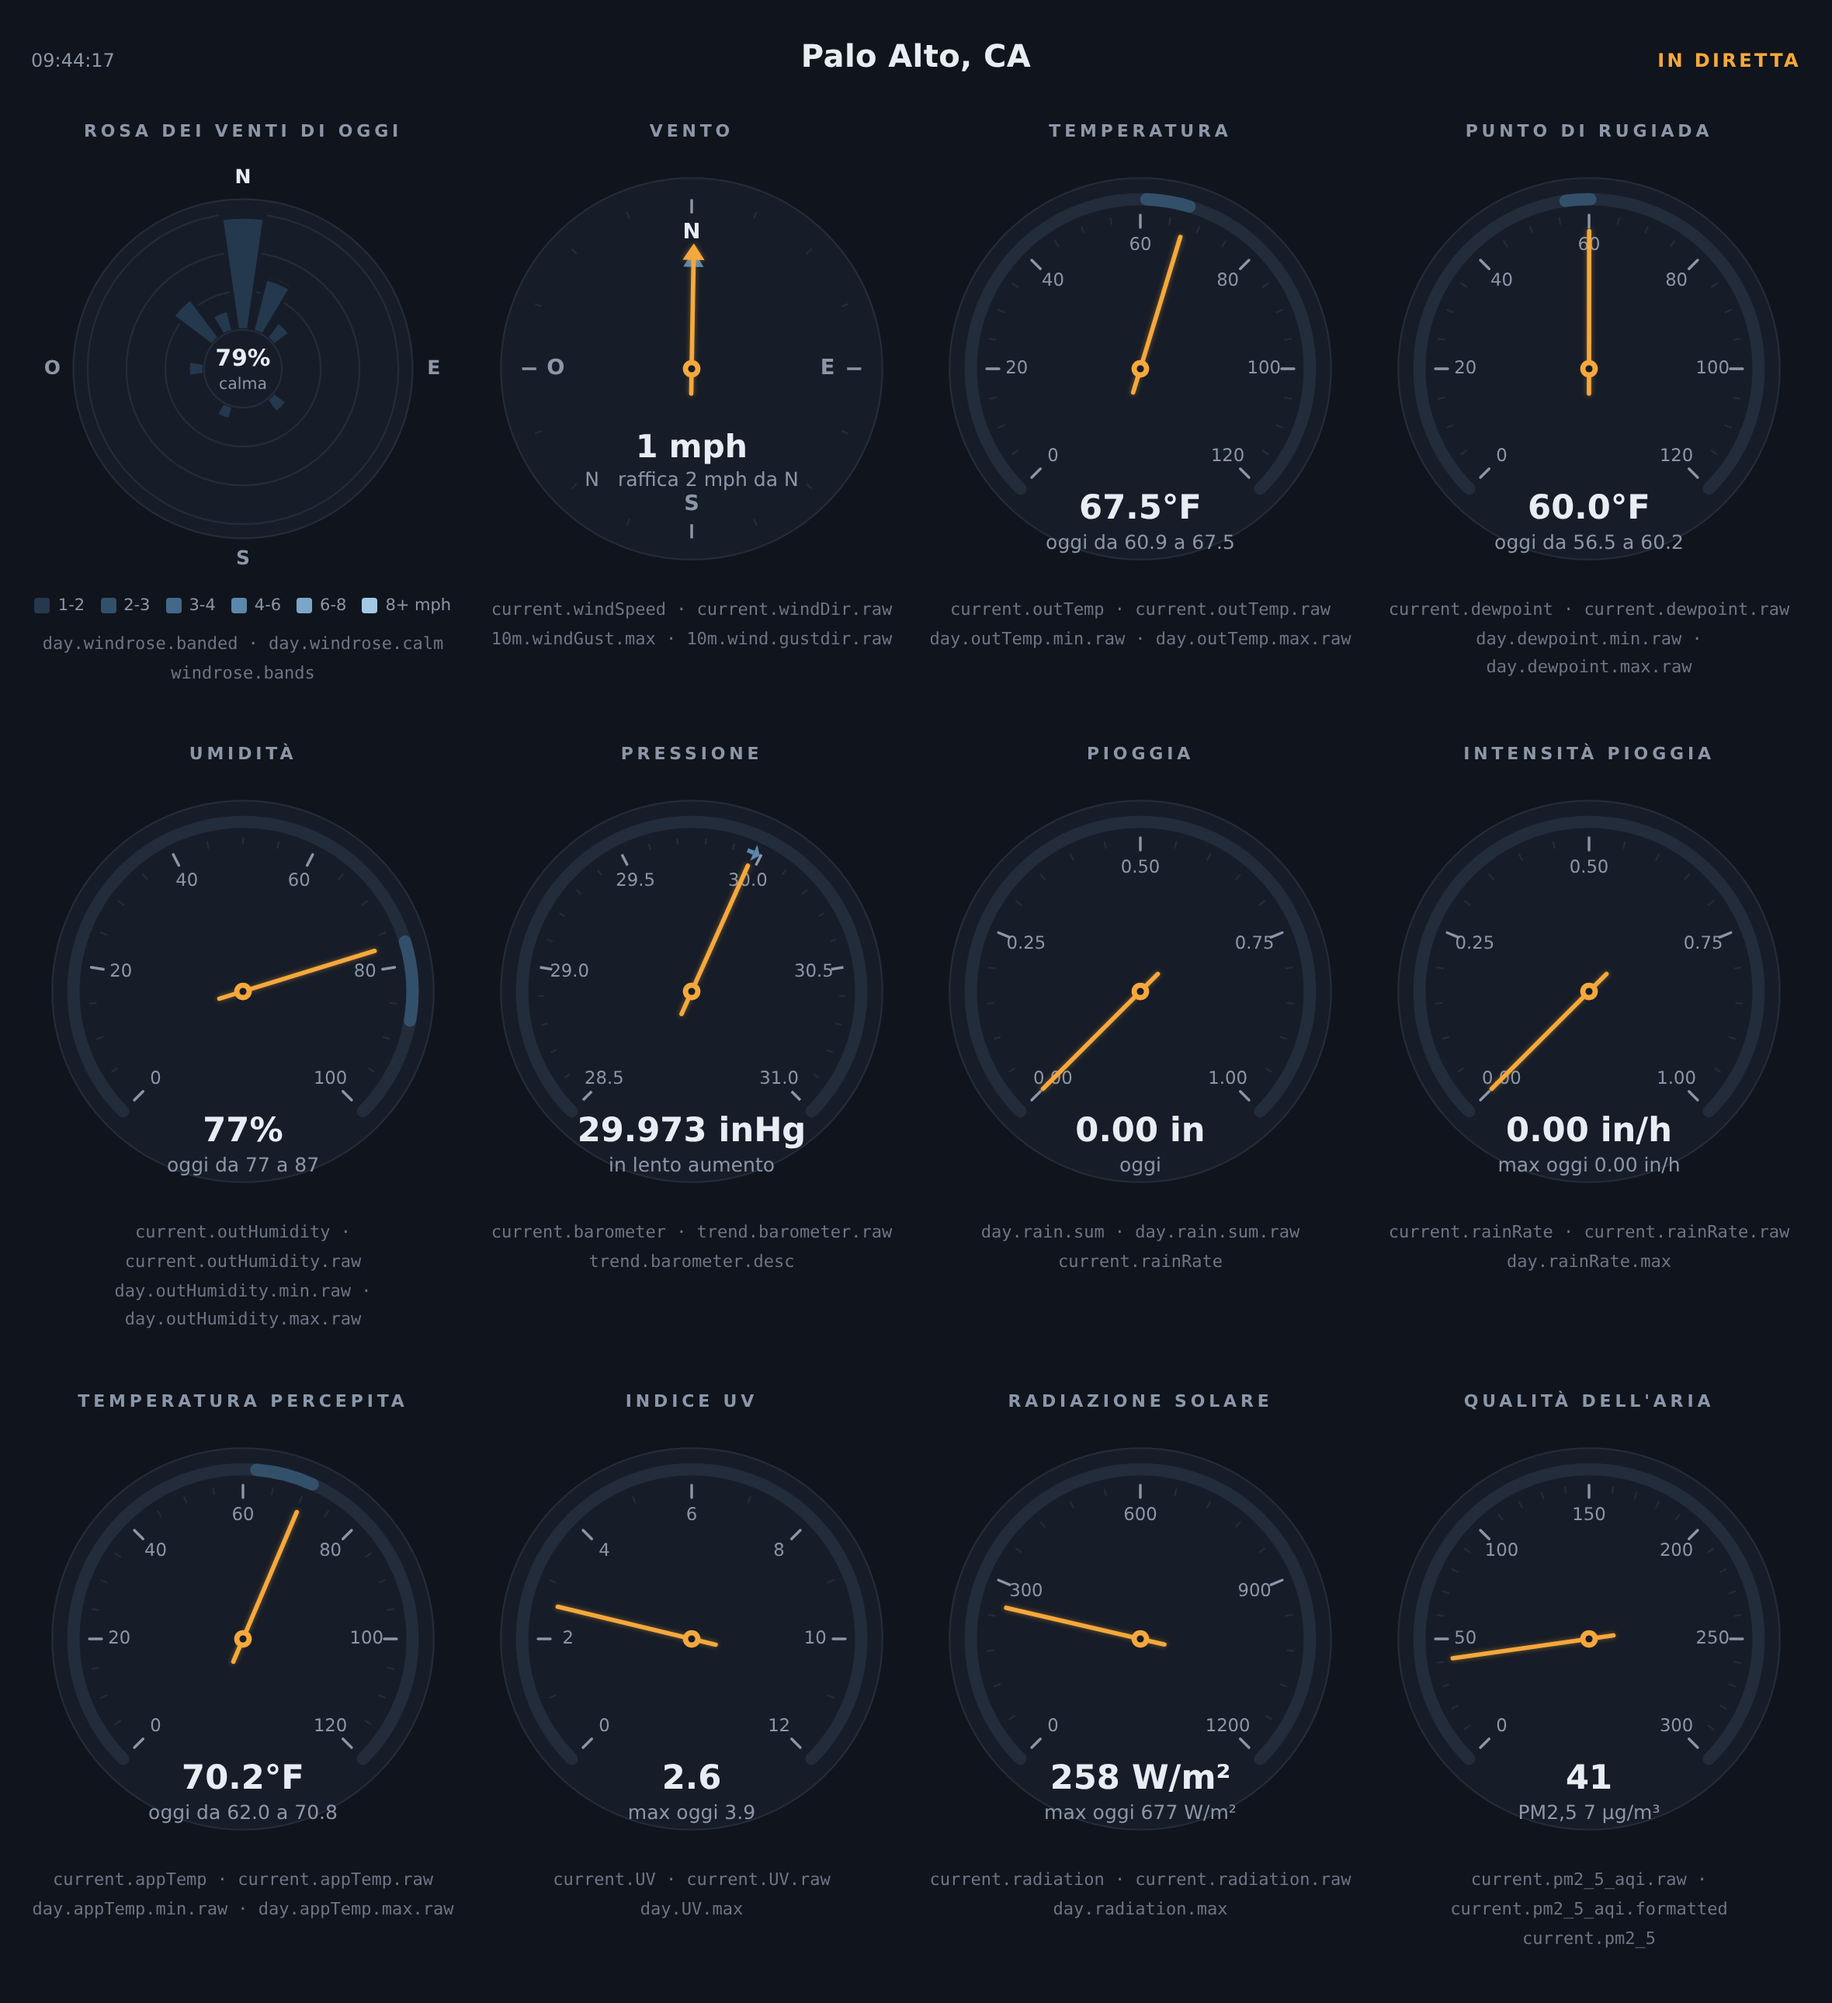
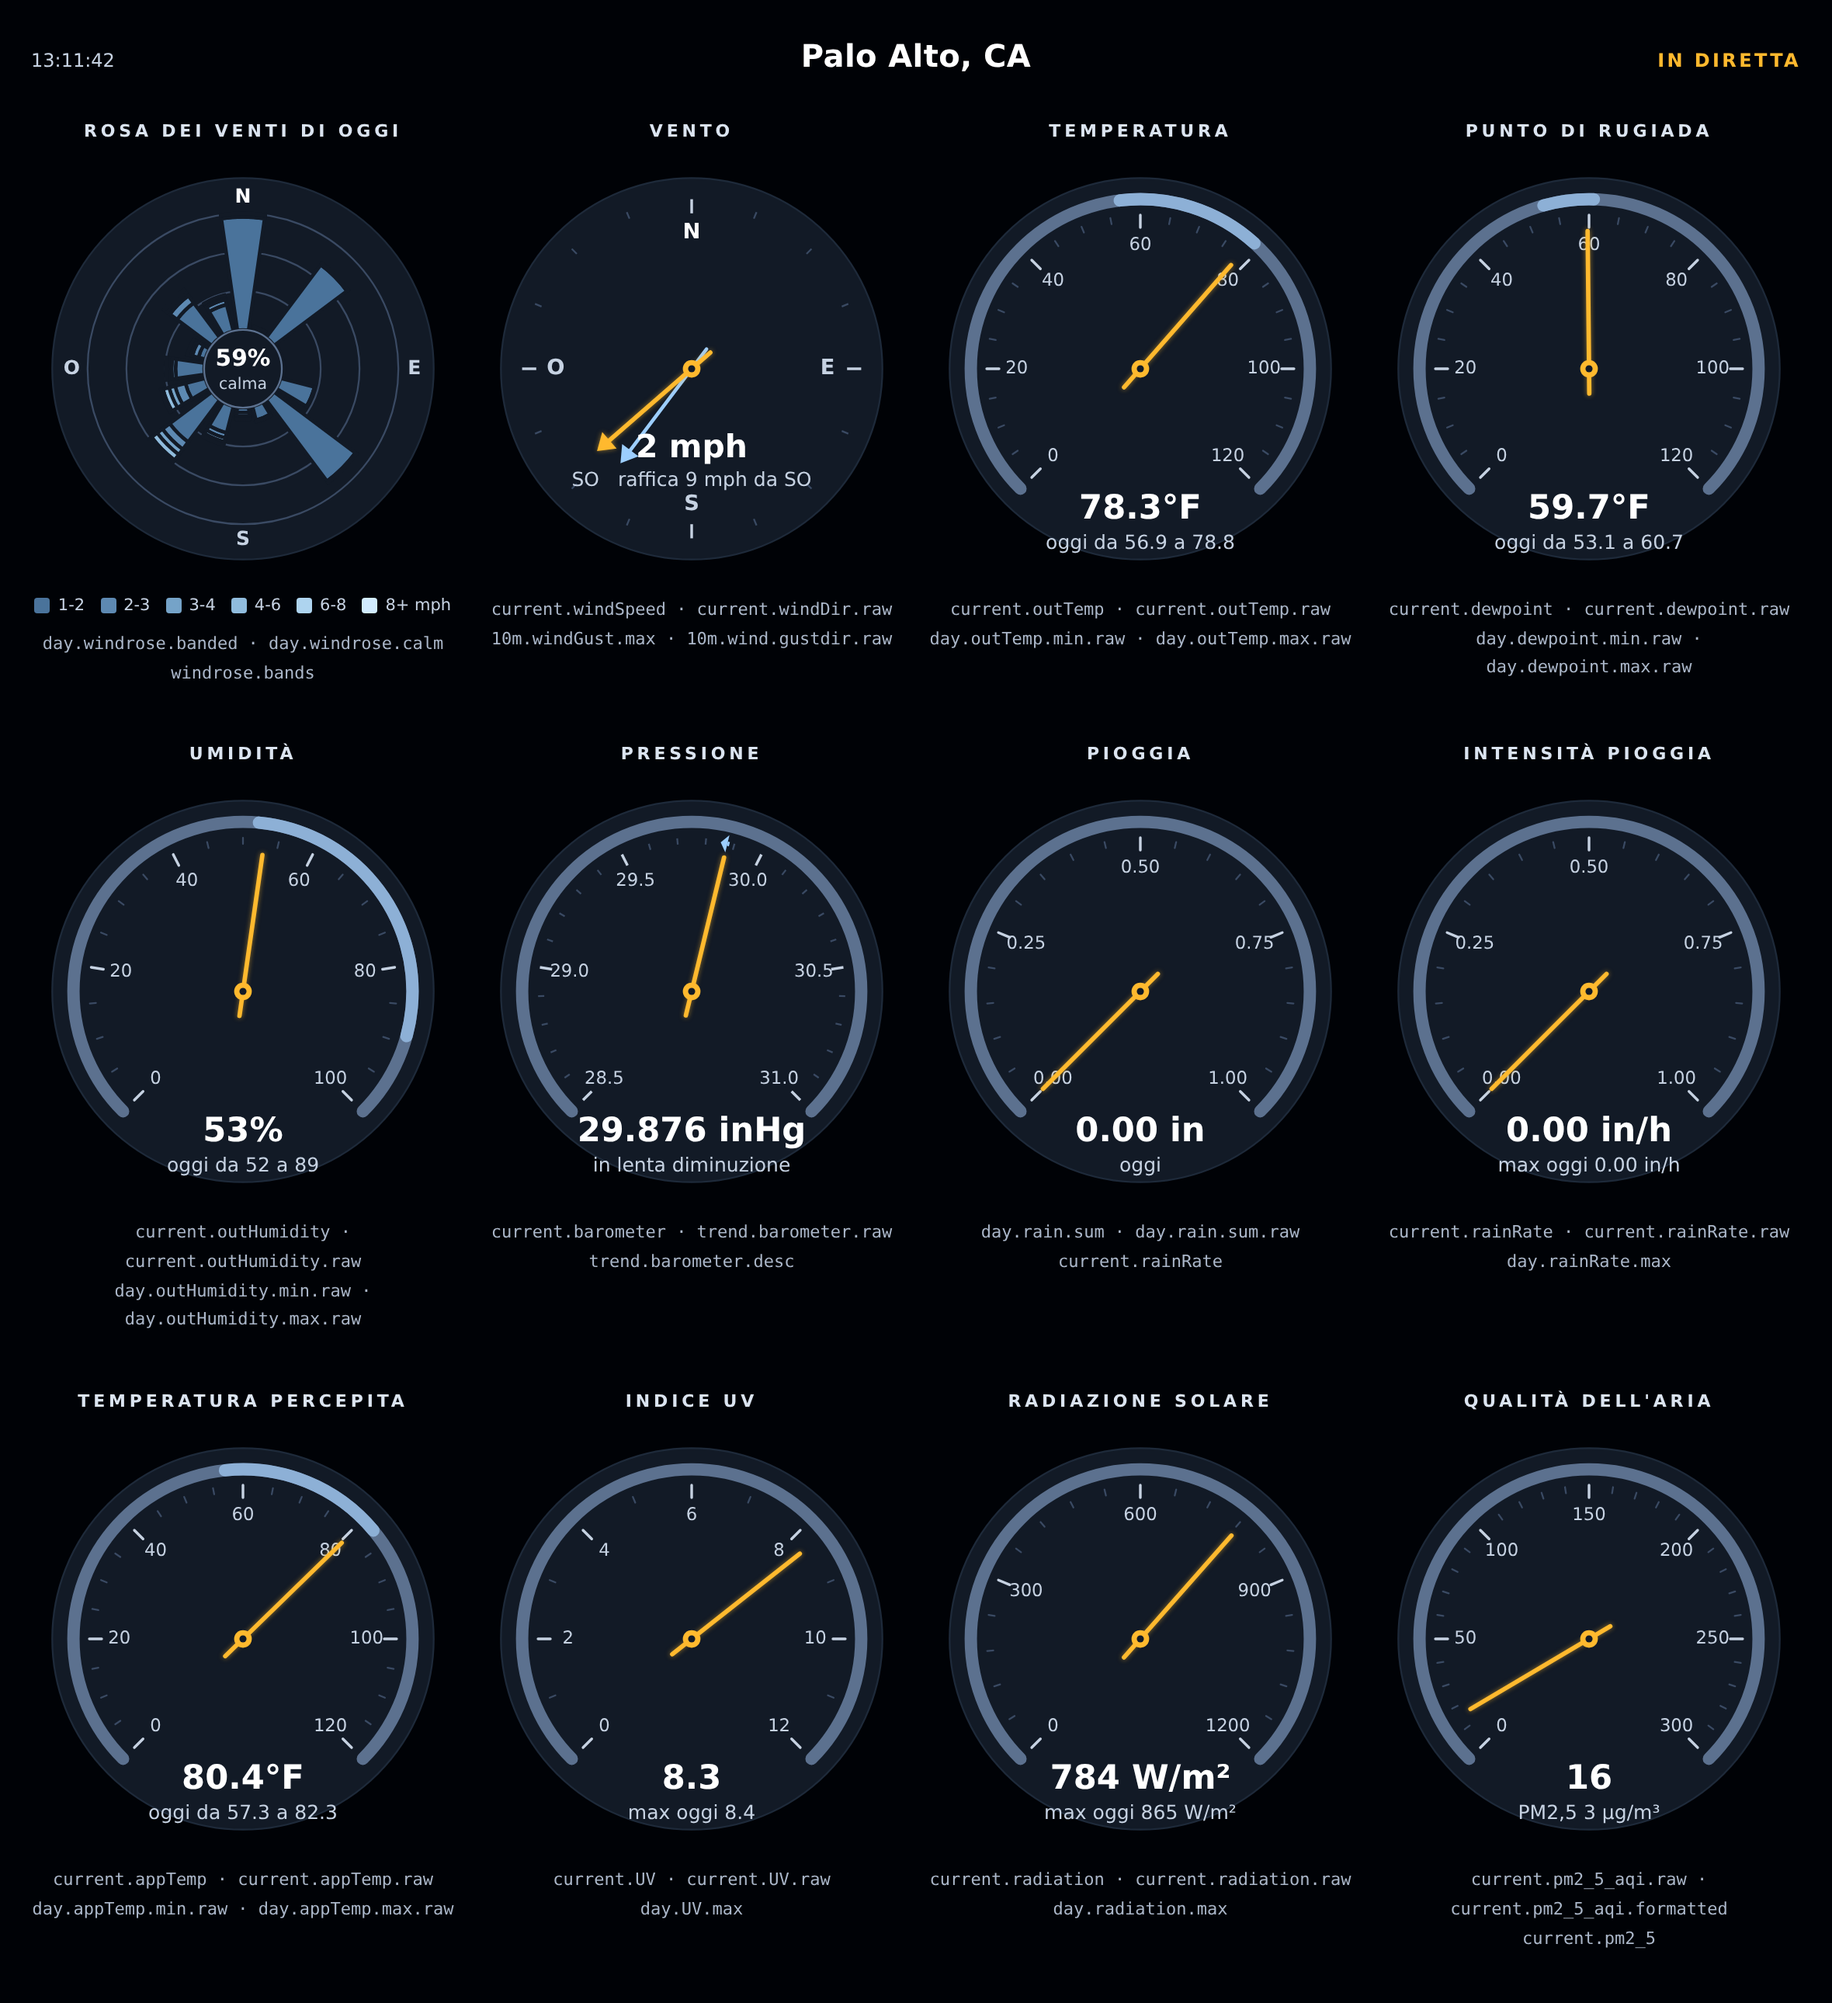
The sample report's dark theme is higher contrast and much easier to read: white readouts, brighter numerals and labels, a recessed track you can see on every dial, and windrose bands that no longer vanish into the disc.  The field captions lose an opacity that had them under AA.  The windrose is no

diff --git a/tests/test_process_packet.py b/tests/test_process_packet.py
@@ -7702,6 +7702,63 @@ class ProcessPacketTests(unittest.TestCase):
         self.assertEqual(sorted(fmt_keys - t_keys), [], 'fmt key never fed into T')
         self.assertEqual(sorted(t_keys - fmt_keys), [], 'T entry no fmt call reads')
 
+    # Roles the html needs but no canvas draws: the page ground, and the
+    # two greys 6.11 split out of --muted for html-only text.
+    PALETTE_CSS_ONLY = {'ground', 'heading', 'fields'}
+
+    def test_skin_palette_kept_in_step(self):
+        # The panel's palette is declared twice -- as :root custom
+        # properties for the html, and as the C object for the canvases,
+        # which cannot read css variables -- so nothing but a test stops
+        # the two from drifting.  Pin them both ways: every canvas colour
+        # must have a css declaration with the same value, and the css
+        # must declare exactly the canvas roles plus the html-only ones,
+        # so adding a colour to one side alone fails here.
+        with open(os.path.join(self.I18N_SKIN_DIR, 'index.html.tmpl'),
+                  encoding='utf-8') as f:
+            template = f.read()
+        with open(os.path.join(self.I18N_SKIN_DIR, 'realtime_updater.inc'),
+                  encoding='utf-8') as f:
+            include = f.read()
+
+        root = re.search(r':root\s*\{(.*?)\}', template, re.DOTALL)
+        self.assertIsNotNone(root, 'no :root block in index.html.tmpl')
+        css = dict(re.findall(r'--([\w-]+)\s*:\s*(#[0-9a-fA-F]{3,8})\s*;',
+                              root.group(1)))
+        self.assertTrue(css)
+
+        block = re.search(r'\bvar C = \{(.*?)\};', include, re.DOTALL)
+        self.assertIsNotNone(block, 'no C palette object in realtime_updater.inc')
+        canvas = dict(re.findall(r"(\w+)\s*:\s*'(#[0-9a-fA-F]{3,8})'",
+                                 block.group(1)))
+        self.assertTrue(canvas)
+
+        # camelCase on the canvas side, kebab-case in css (steelDim/steel-dim).
+        def css_name(key: str) -> str:
+            return re.sub(r'([a-z])([A-Z])', r'\1-\2', key).lower()
+
+        for key, value in canvas.items():
+            name = css_name(key)
+            self.assertIn(name, css, 'C.%s has no --%s declaration' % (key, name))
+            self.assertEqual(css[name].lower(), value.lower(),
+                             '--%s and C.%s disagree' % (name, key))
+        self.assertEqual(
+            sorted(set(css) - {css_name(k) for k in canvas}),
+            sorted(self.PALETTE_CSS_ONLY),
+            'css declares a colour no canvas draws (or an html-only role went away)')
+
+        # The needle's glow is a third copy of the amber, spelled rgba;
+        # it has to track --amber or the lamp glow stops matching the lamp.
+        glows = set(re.findall(r'shadowColor\s*=\s*\'rgba\(([^)]+)\)\'', include))
+        self.assertTrue(glows)
+        amber = canvas['amber'].lstrip('#')
+        expected = tuple(int(amber[i:i + 2], 16) for i in (0, 2, 4))
+        for glow in glows:
+            channels = [p.strip() for p in glow.split(',')]
+            self.assertEqual(tuple(int(c) for c in channels[:3]), expected,
+                             'needle glow rgba(%s) is not C.amber %s'
+                             % (glow, canvas['amber']))
+
     def test_i18n_lang_files_consistent(self):
         # Every shipped lang file must parse, translate only keys en.conf
         # ships (a stale key would silently never render), keep each value's

diff --git a/install.py b/install.py
@@ -31,7 +31,7 @@ def loader():
 class LoopDataInstaller(ExtensionInstaller):
     def __init__(self):
         super(LoopDataInstaller, self).__init__(
-            version = "6.10",
+            version = "6.11",
             name = 'loopdata',
             description = 'Loop statistics for real time reporting.',
             author = "John A Kline",

diff --git a/tests/spec_only_runner.py b/tests/spec_only_runner.py
@@ -85,6 +85,7 @@ SPEC_TESTS = [
     'test_windrose_end_to_end',
     'test_i18n_en_conf_ships_exactly_what_renders',
     'test_i18n_javascript_lookups_match_the_t_feed',
+    'test_skin_palette_kept_in_step',
     'test_i18n_lang_files_consistent',
     'test_i18n_de_conf_is_complete',
     'test_i18n_fr_conf_is_complete',

diff --git a/bin/user/loopdata.py b/bin/user/loopdata.py
@@ -56,7 +56,7 @@ from weewx.engine import StdService
 # get a logger object
 log = logging.getLogger(__name__)
 
-LOOP_DATA_VERSION = '6.10'
+LOOP_DATA_VERSION = '6.11'
 
 if sys.version_info[0] < 3 or (sys.version_info[0] == 3 and sys.version_info[1] < 7):
     raise weewx.UnsupportedFeature(

diff --git a/docs/upgrading.md b/docs/upgrading.md
@@ -87,6 +87,14 @@ a restart.  Details, and the aggregates the new type adds, are under
 
 ## Worth knowing, but nothing to do
 
+* **6.11** — the sample report's dark theme is higher contrast: white
+  readouts, a visible recessed track on every dial, a windrose whose calmest
+  band no longer disappears into the disc, and gauge titles and field
+  captions that read as separate things.  Nothing to configure — if you
+  installed the sample skin, the next report cycle looks different.  A skin
+  you copied and customized keeps whatever palette you gave it; the values
+  live in `:root` in `index.html.tmpl` and in the `C` and `RAMP` literals in
+  `realtime_updater.inc`, which must be kept in step.
 * **6.10** — almanac fields work again on WeeWX earlier than 5.3.  If yours
   stopped writing `loop-data.txt` and left a `TypeError` traceback in the
   log, this release is the fix; see

diff --git a/docs/sample-skin.md b/docs/sample-skin.md
@@ -94,5 +94,11 @@ In the skin's `[Extras]` (see `skins/LoopData/skin.conf`):
   LIVE/OFFLINE/NO DATA/BAD DATA indicator, the expiration timer, and the
   canvas gauge and windrose rendering.
 
+The palette lives in two places that must be kept in step: the `:root`
+custom properties in `index.html.tmpl` for the html, and the `C` and `RAMP`
+literals in `realtime_updater.inc` for the canvases, which cannot read css
+variables.  Retune it freely — the windrose and the dials share a face
+radius, so they read as one size whatever you do to the colors.
+
 [Building a live page](build-a-live-page.html) walks through the same
 pattern for your own skin.
